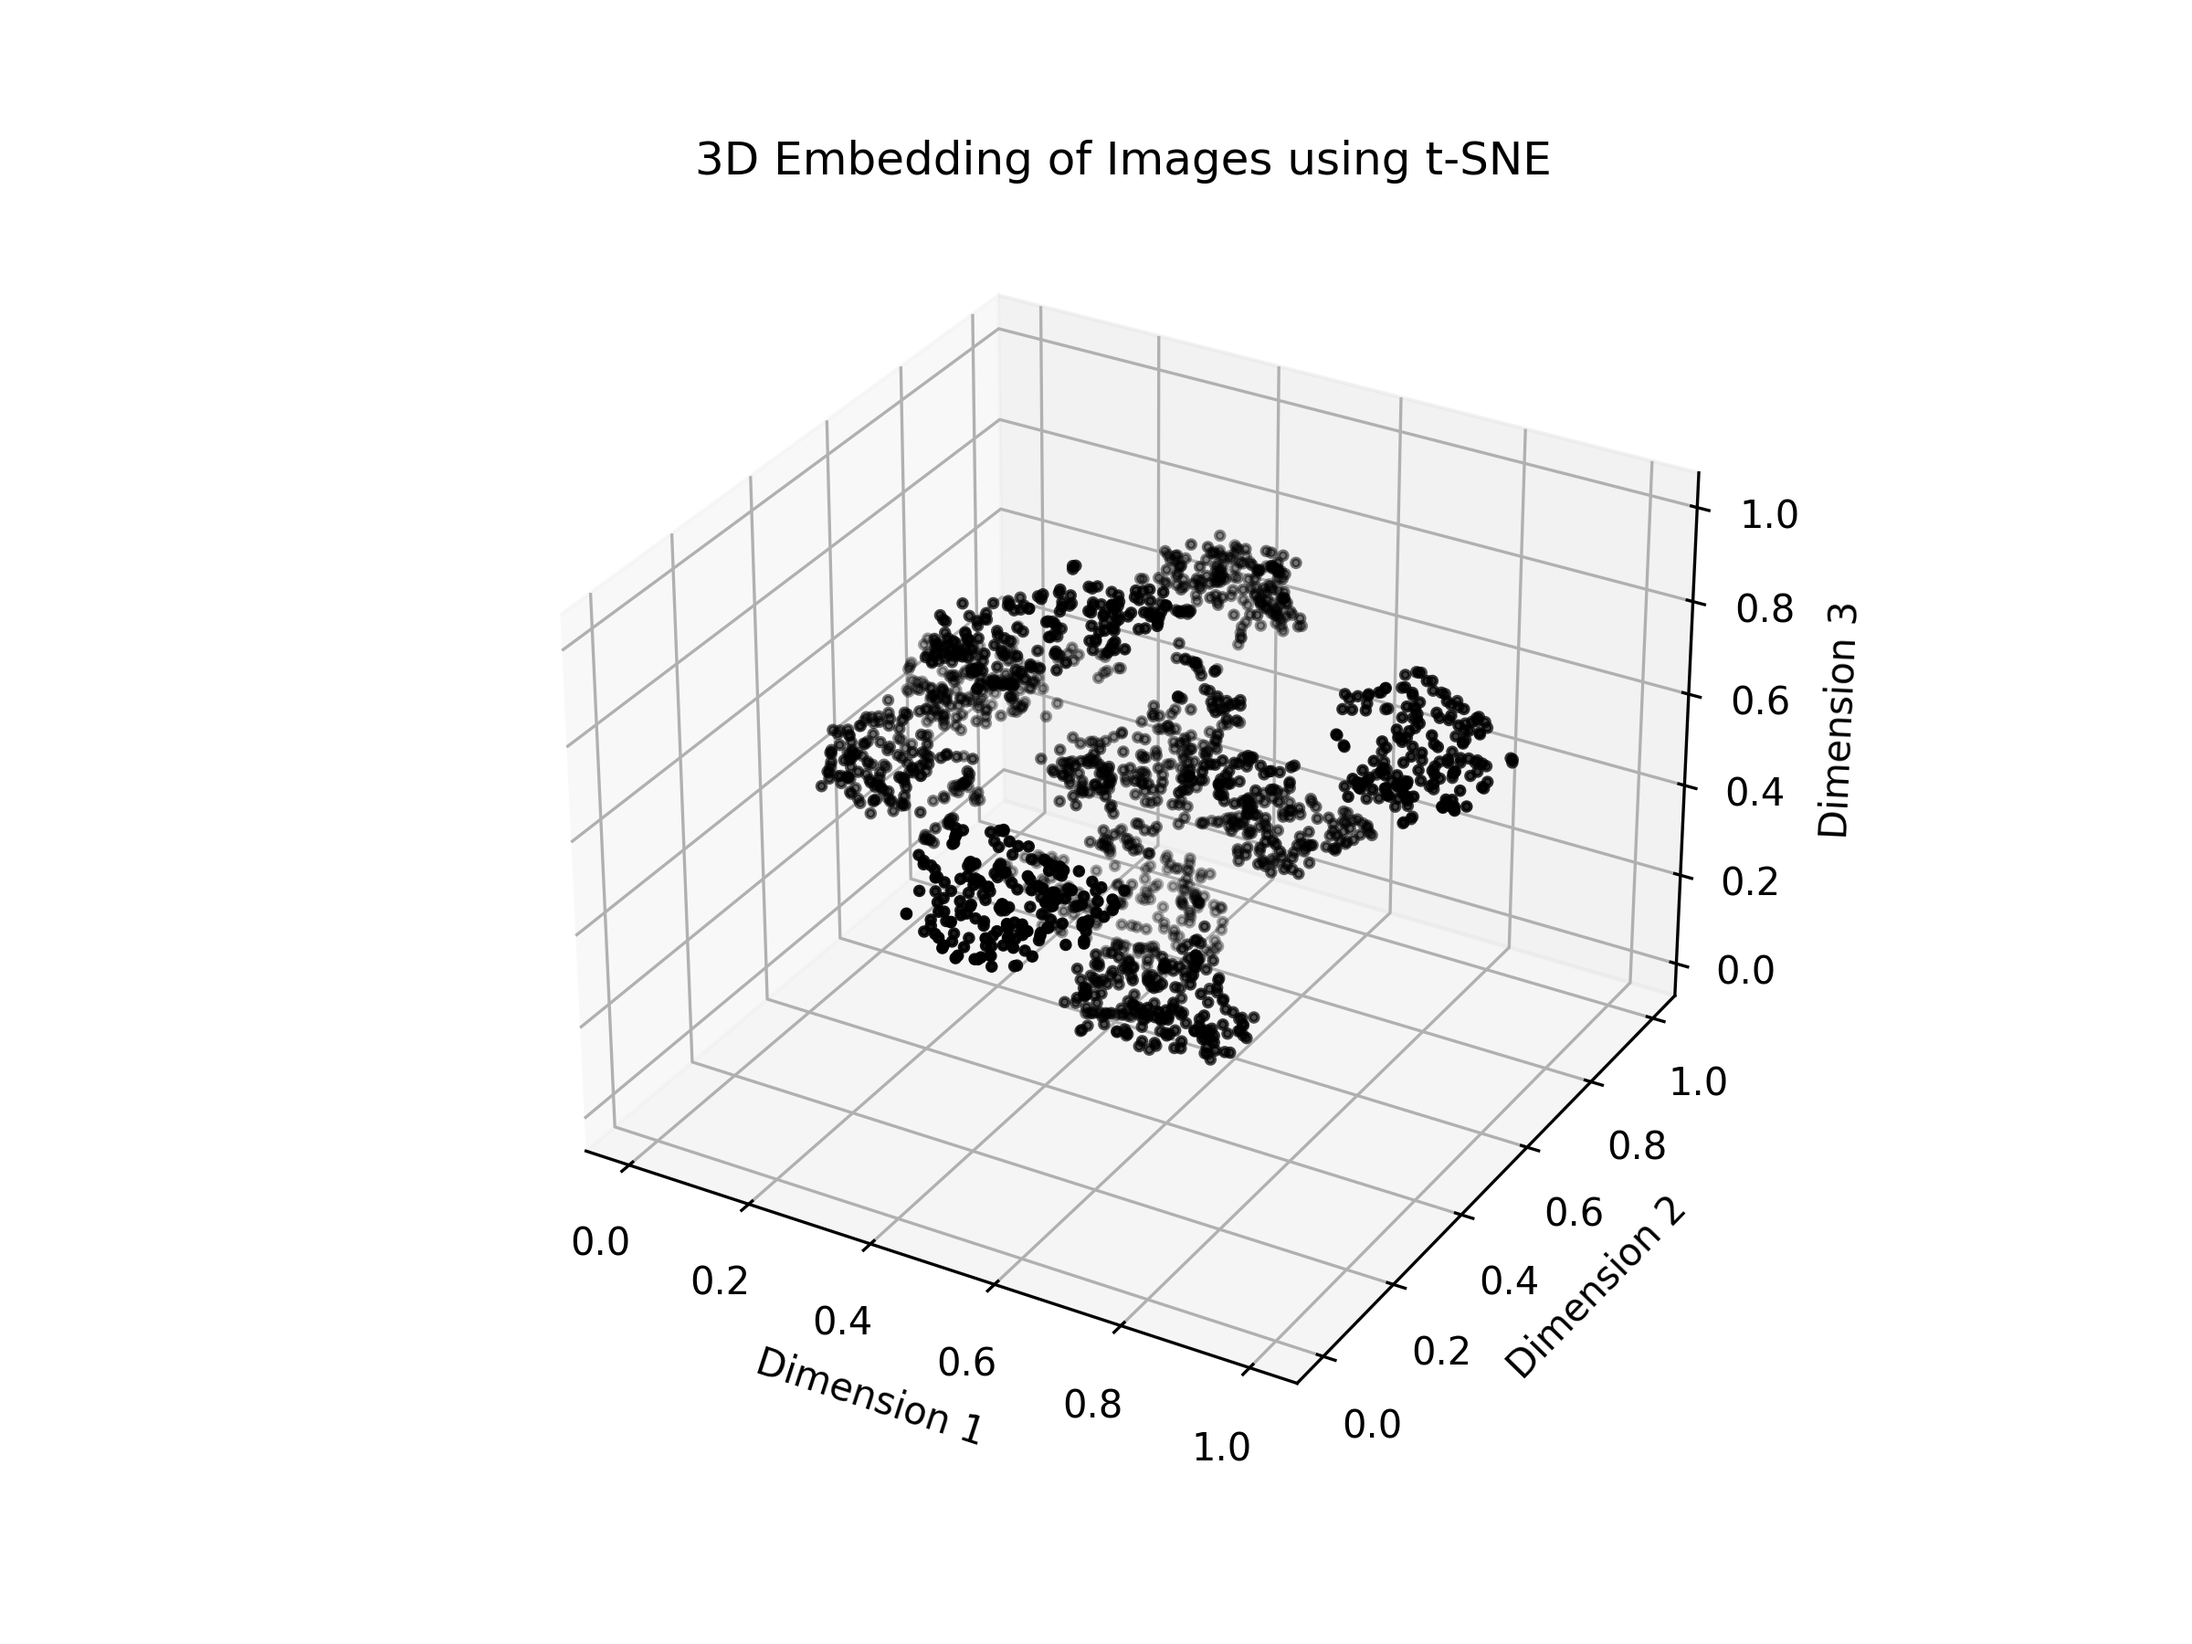
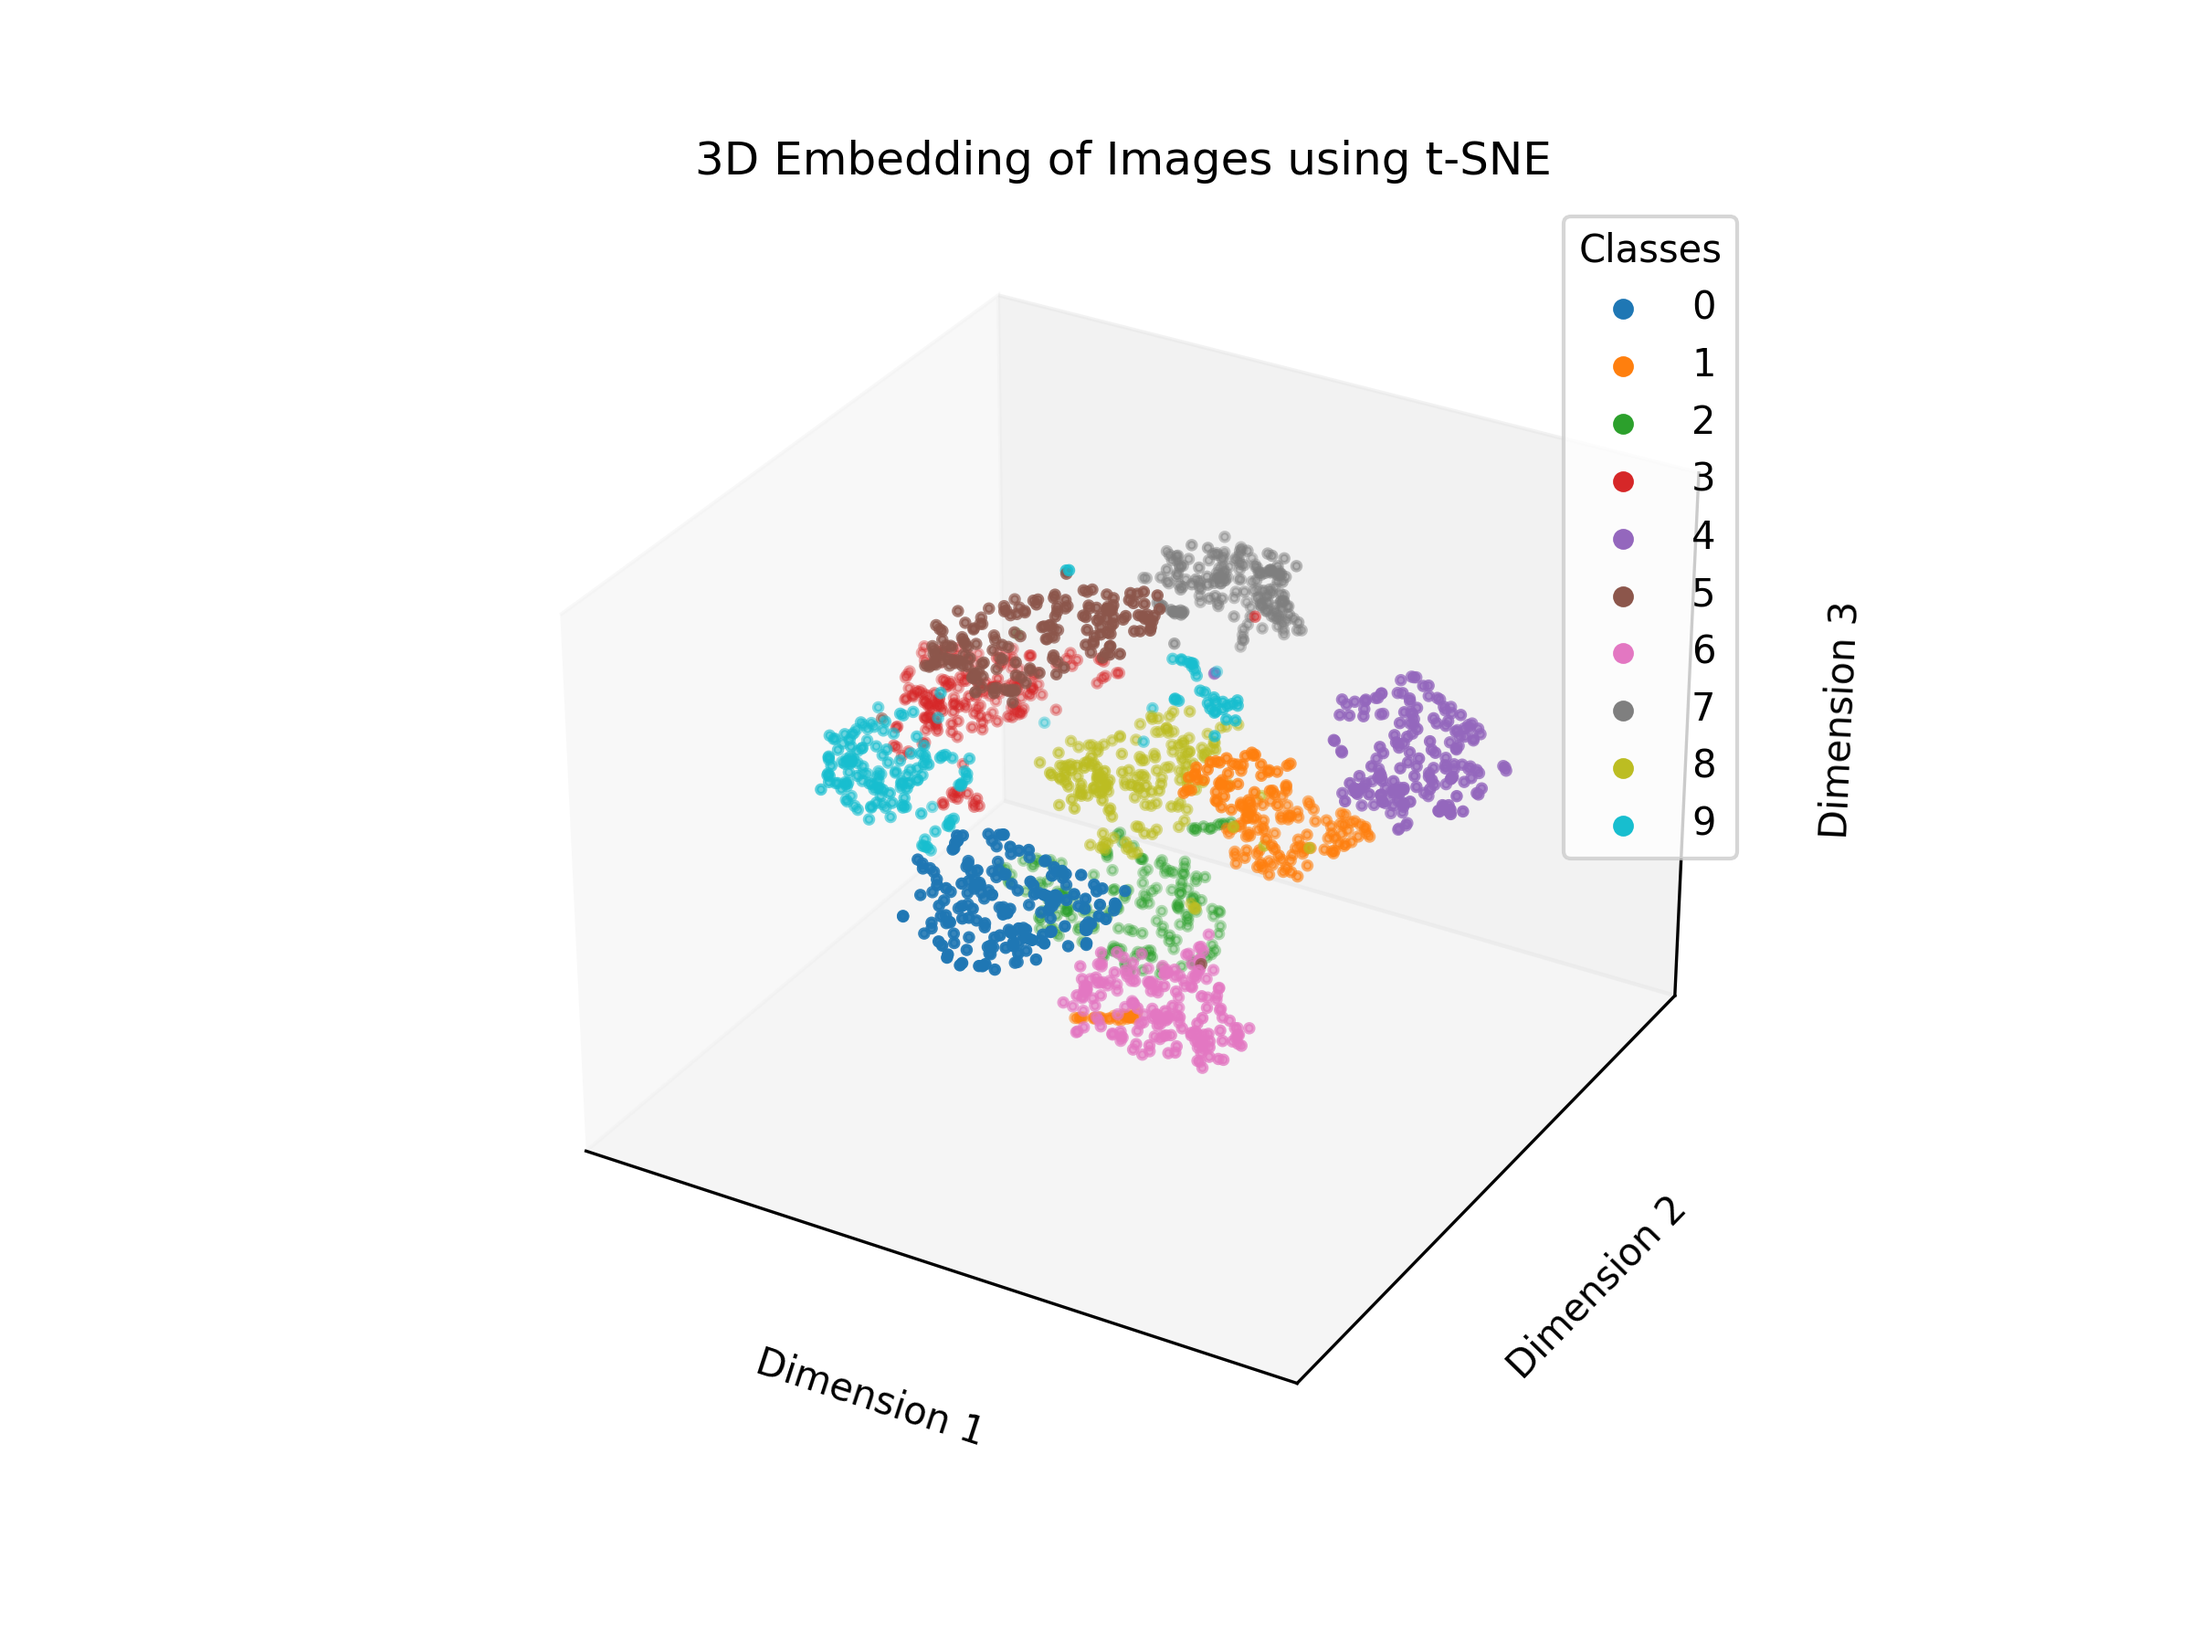
refactor: remove all axis ticks

diff --git a/tests/test_visualizations.py b/tests/test_visualizations.py
@@ -2,7 +2,7 @@ import numpy as np
 import pytest
 from sklearn.datasets import load_digits
 
-from optical_toolkit.visualize.visualize_embeddings import visualize_embeddings
+from optical_toolkit.visualize.embeddings import get_embeddings
 from optical_toolkit.visualize.visualize_images import visualize_images
 
 
@@ -29,11 +29,12 @@ def test_visualize_images_bordered(noise_images):
 def test_tsne_2d_embedding():
     digits = load_digits()
     X = digits.images
+    y = digits.target
 
     try:
-        visualize_embeddings(X)
+        get_embeddings(X, y, dims=2)
     except Exception as e:
-        pytest.fail(f"visualize_embeddings raised an exception: {e}")
+        pytest.fail(f"get_embeddings raised an exception: {e}")
 
 
 def test_tsne_3d_embedding():
@@ -42,6 +43,6 @@ def test_tsne_3d_embedding():
     y = digits.target
 
     try:
-        visualize_embeddings(X, y)
+        get_embeddings(X, y, dims=3)
     except Exception as e:
-        pytest.fail(f"visualize_embeddings raised an exception: {e}")
+        pytest.fail(f"get_embeddings raised an exception: {e}")

diff --git a/optical_toolkit/visualize/embeddings.py b/optical_toolkit/visualize/embeddings.py
@@ -5,7 +5,7 @@ from sklearn.manifold import TSNE
 from sklearn.preprocessing import MinMaxScaler
 
 
-def visualize_embeddings(X, y=None, dims=2, fname="tsne_embedding"):
+def get_embeddings(X, y=None, dims=2, fname="tsne_embedding"):
     """
     Given a numpy array of images X, flatten the images
     and plot a 2D or 3D embedding using t-SNE.
@@ -54,6 +54,8 @@ def visualize_embeddings(X, y=None, dims=2, fname="tsne_embedding"):
         plt.title("2D Embedding of Images using t-SNE")
         plt.xlabel("Dimension 1")
         plt.ylabel("Dimension 2")
+        plt.xticks([])
+        plt.yticks([])
 
         if y is not None:
             legend_labels = [
@@ -78,6 +80,9 @@ def visualize_embeddings(X, y=None, dims=2, fname="tsne_embedding"):
         ax.set_xlabel("Dimension 1")
         ax.set_ylabel("Dimension 2")
         ax.set_zlabel("Dimension 3")
+        ax.set_xticks([])
+        ax.set_yticks([])
+        ax.set_zticks([])
 
         if y is not None:
             for cls in unique_classes:
